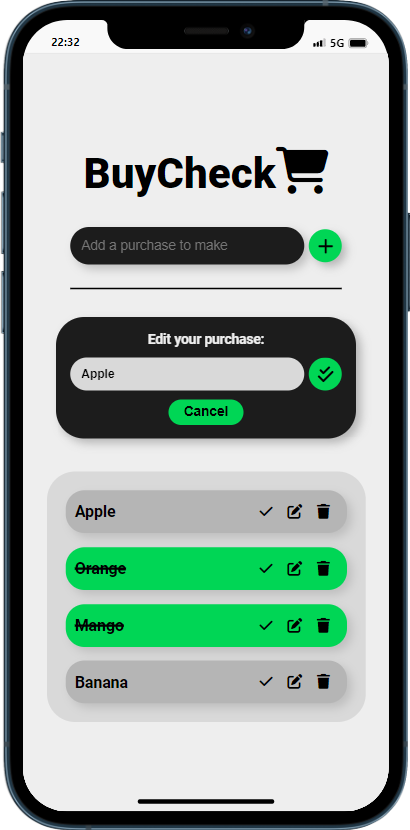
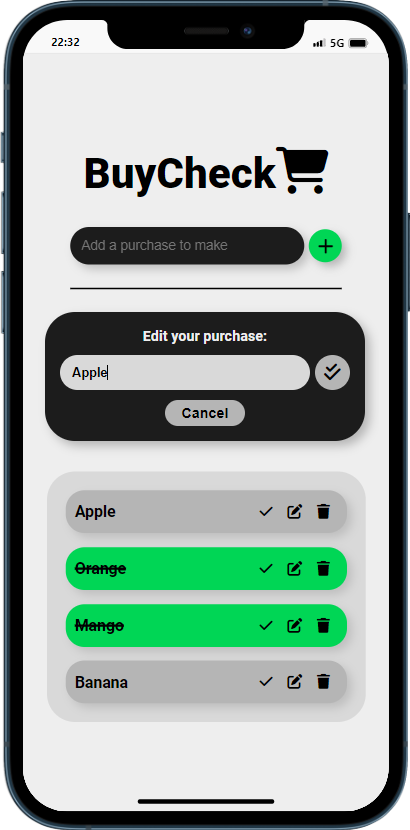
Update mobile(8).png

Changed region(s): [[0.0878, 0.3614, 0.9073, 0.5422]]

diff --git a/css/style.css b/css/style.css
@@ -74,7 +74,7 @@ h1 {
     font-size: 0.9rem;
     font-weight: 600;
     border: none;
-    background-color: #00D655;
+    background-color: #B5B5B5;
     border-radius: 25px;
     padding: 5px 10px;
     margin-top: 10px;
@@ -97,6 +97,7 @@ h1 {
 #button-edit {
     margin: 0;
     box-shadow: none;
+    background-color: #B5B5B5;
 }
 .edit-part {
     display: flex;
